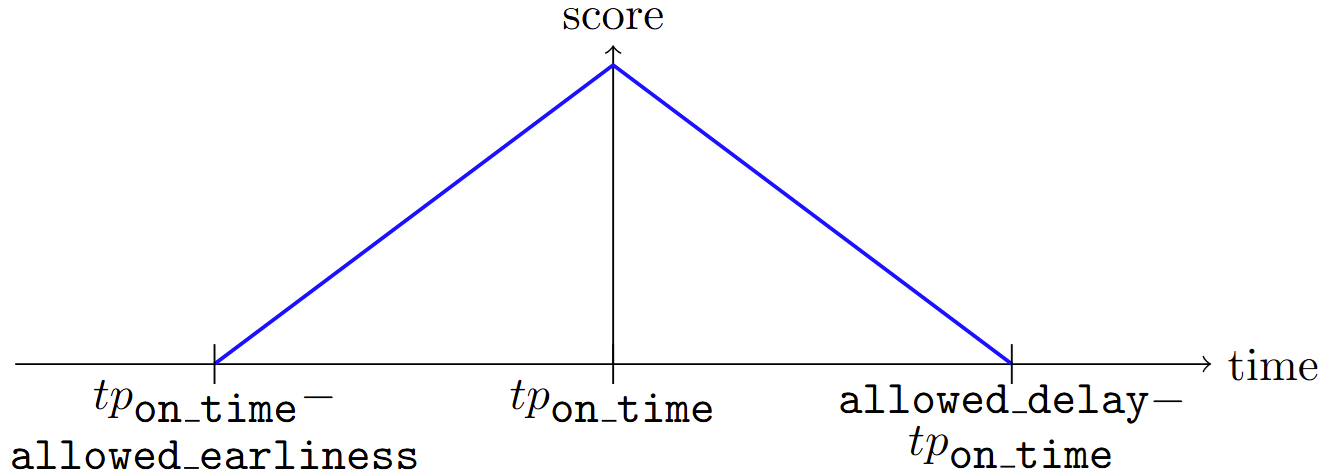
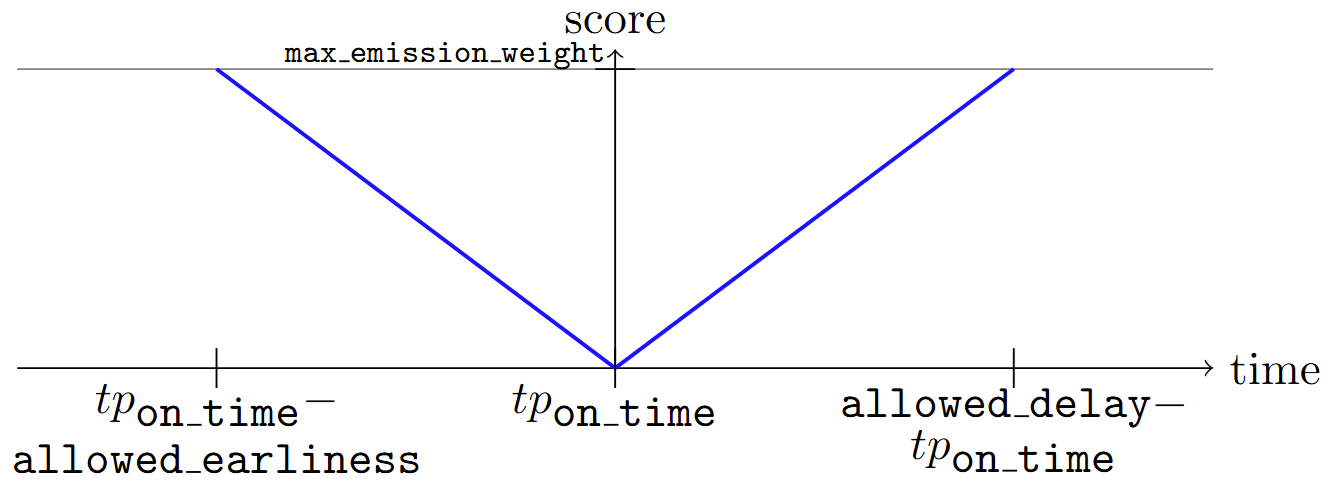
fix temporal emission plot

diff --git a/content/post/project-better-map-matching-mobile-phones-to-public-transit-vehicles/index.md b/content/post/project-better-map-matching-mobile-phones-to-public-transit-vehicles/index.md
@@ -35,7 +35,7 @@ In this blog post, we compare two dynamic map matching algorithms for matching a
 
 # Introduction
 
-We present an algorithm to deduce the public transit vehicle (PTV) a mobile phone is travelling in in real time. In a nutshell, this is based on analyzing the last few GPS points of the device and applying our spatio-temporal map matching algorithm, which uses static (non-realtime) PTV schedule information.
+We present an algorithm to deduce the public transit vehicle (PTV) a mobile phone is travelling in real time. In a nutshell, this is based on analyzing the last few GPS points of the device and applying our spatio-temporal map matching algorithm, which uses static (non-realtime) PTV schedule information.
 
 This project aims to improve on Robin Wu's and my previous work [1-3], by improving accuracy and speed. We therefore re-design our previous spatio-temporal map-matching algorithm conceptually. We further improve query speed by implementing the reworked backend in C++.
 
@@ -140,16 +140,24 @@ The spatio-temporal score is then calulcated as followed, using the tunable para
 \end{cases}
 \end{equation}
 
-The temporal component of the score is visualized in [in Figure 5](#fig-temporal-emission).
+The spatial component linearly rises from \\(\texttt{dist}(p_{e_j}) \geq r \to 0\\) to \\(\texttt{dist}(p_{e_j}) = 0 \to \\)
+The temporal component of the score is visualized [in Figure 5](#fig-temporal-emission).
 
-{{< figure id="fig-temporal-emission" src="img/PTVM_temporal_emission.png" alt="PTVM Temporal Emission Score" width="800" caption="> Figure 5: The temporal component of the emission score is at its maximum for punctual \\(tp_{p_{e_j}}\\) and linearly decreases to zero on tunable earliness and delay threshold values." >}}
+{{< figure id="fig-temporal-emission" src="img/PTVM_temporal_emission.png" alt="PTVM Temporal Emission Score" width="800" caption="> Figure 5: The temporal component of the emission score is \\(0\\) for punctual \\(tp_{p_{e_j}}\\) and linearly increases to its maximum on tunable earliness and delay threshold values." >}}
 
 In order to determine the HMM candidates, we choose the maximum trip segment score \\(c_{t_i} \max \texttt{score}(ts_{t_i})\\) for all trips. If \\(c_{t_i} < \texttt{emission_threshold}\\), trip \\(t_i\\) is chosen as a HMM candidate for event \\(ev\\). We can recycle \\(c_{t_i}\\) for the HMM emission score.
 
+#### PTVM HMM
+
+A HMM is a layered directed acyclic graph (LDAG), which enables us to use a heap-queue-free layer relaxation algorithm to find the shortest path from start to the end node.
+
 ### Transition probability
+
 The transition probability describes the likelihood of getting from one state in the Markov Chain to another.
 As a reminder, the transition probability is the weight from a node \\(e^1\\) to one of its outgoing neighbors \\(e^2\\) in \\(G_{markov}\\).
+
 <img src="img/transition.png" title="Transition"></img>
+
 Firstly, each node represents an edge, and we want to include the length of the edge in the weight. 
 The length can be calculated with the [great circle distance](https://en.wikipedia.org/wiki/Great-circle_distance) between the two end points of an edge.
 Then, we try to find the shortest path from \\(e^1\\) to \\(e^2\\) within \\(G_{network}\\).
@@ -159,15 +167,19 @@ Since we are getting all close edges within a 100 meters radius, the opposite di
 If we remember the order of the edges in a shape, we can check if the edges are in ascending order oder descending order.
 Travelling in descending order means that we are travelling in the opposite direction of the shape. Thus, we penalize this direction.
 In contrast, an ascending order corresponds to the correct direction, so we just set the penalty to 0.
+
 \begin{align*}
     P_{transition}(e^1 \to e^2) &= ||e^1||_{great\\_circle} + ||e^2||_{great\\_circle}\newline
     &\phantom{\text{= }} + \text{len_shortest\_path}(e^1, e^2) + \text{direction\_penalty}(e^1, e^2)
 \end{align*}
+
 If there is no such direct path available, we penalize this path by adding a high weight.
 This has the effect that this path can then still be matched if there is no other possibility. This can happen due to a transfer between vehicles.\
 As the start and end nodes of \\(G_{markov}\\) do not represent edges, we need a different transition probability for those.
 For the start node, we use the shortest great circle distance of the first GPS point to the first edge as weight.
+
 <img src="img/transition_start.png" title="Transition from Start"></img>
+
 In the same manner, we calculate the distance between the last edge to the last GPS point.
 As a result, we get a shape where the start and end points are close to the GPS points.
 